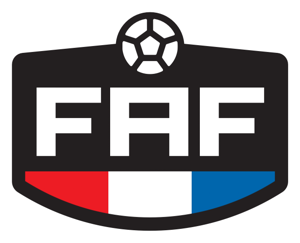
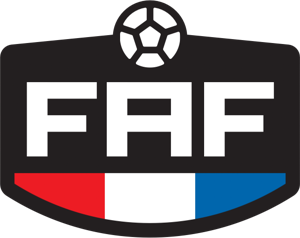
Quadro da FAF: escudo centralizado, sem nome e sem contorno

diff --git a/app/index.html b/app/index.html
@@ -1030,7 +1030,7 @@ body.picker #areaBanner{display:none!important}
 .abn.logo{padding:14px 18px}
 .abn.logo-bm{background:linear-gradient(135deg,#0B5E3B,#0E7A4D 70%,#12935C);box-shadow:0 10px 28px -14px rgba(14,122,77,.7)}
 .abn.logo-faf{background:linear-gradient(135deg,#2346C9,#2F5BEA 70%,#4F78F0);box-shadow:0 10px 28px -14px rgba(47,91,234,.7);gap:14px}
-.abn-emb{height:52px;width:auto;display:block;flex:none}
+.abn-emb{height:56px;width:auto;display:block;flex:none;margin:0 auto}
 .abn-fn{color:#fff;font:700 18px/1.15 var(--display);letter-spacing:-.01em;text-align:left}
 .tag.fed{background-image:url(assets/faf-emblem.png);background-repeat:no-repeat;background-position:6px 50%;background-size:auto 14px;padding-left:29px}
 .abn-logo{height:46px;width:auto;max-width:100%;display:block}
@@ -2290,7 +2290,7 @@ body.picker #areaBanner{display:none!important}
   function drawAreaHead(ctx, k, x, y){
     if (!logoOk(k)) return false; const L = LOGOS[k];
     if (L.plate){ drawAreaLogo(ctx, k, x, y - 16, 46); return true; }
-    const w = drawAreaLogo(ctx, k, x, y - 10, 62); ctx.save(); ctx.fillStyle = SH.ink; ctx.font = "700 28px " + DISP; ctx.textBaseline = "middle"; ctx.fillText((L.nome || "").toUpperCase(), x + w + 16, y + 21); ctx.restore(); return true;
+    drawAreaLogo(ctx, k, x, y - 10, 62); return true;
   }
   // cabeçalho das imagens com todas as áreas: as logos ao lado da marca do Demandô
   function drawLogosAoLado(ctx, x, y){
@@ -3564,7 +3564,7 @@ body.picker #areaBanner{display:none!important}
     ab.style.setProperty("--a", "var(--" + k + ")");
     ab.classList.toggle("logo", k === "asc" || k === "fed"); ab.classList.toggle("logo-bm", k === "asc"); ab.classList.toggle("logo-faf", k === "fed");
     if (k === "asc") ab.replaceChildren(el("img",{class:"abn-logo", src:"assets/bm-logo.png", alt:"", draggable:"false"}), el("span",{class:"abn-sr"}, NOME_FR[k] || "Boca da Mata"));
-    else if (k === "fed") ab.replaceChildren(el("img",{class:"abn-emb", src:"assets/faf-emblem.png", alt:"", draggable:"false"}), el("b",{class:"abn-fn"}, "Federação Alagoana de Futebol"));
+    else if (k === "fed") ab.replaceChildren(el("img",{class:"abn-emb", src:"assets/faf-emblem.png", alt:"", draggable:"false"}), el("span",{class:"abn-sr"}, "Federação Alagoana de Futebol"));
     else ab.replaceChildren(el("span",{class:"abn-s"}, LBL[k]), el("b",{class:"abn-n"}, NOME_FR[k] || SUB[k] || ""));
     ab.hidden = false;
   }

diff --git a/index.html b/index.html
@@ -2257,7 +2257,7 @@ body.picker #areaBanner{display:none!important}
   function drawAreaHead(ctx, k, x, y){
     if (!logoOk(k)) return false; const L = LOGOS[k];
     if (L.plate){ drawAreaLogo(ctx, k, x, y - 16, 46); return true; }
-    const w = drawAreaLogo(ctx, k, x, y - 10, 62); ctx.save(); ctx.fillStyle = SH.ink; ctx.font = "700 28px " + DISP; ctx.textBaseline = "middle"; ctx.fillText((L.nome || "").toUpperCase(), x + w + 16, y + 21); ctx.restore(); return true;
+    drawAreaLogo(ctx, k, x, y - 10, 62); return true;
   }
   // cabeçalho das imagens com todas as áreas: as logos ao lado da marca do Demandô
   function drawLogosAoLado(ctx, x, y){

diff --git a/tests/logos_test.py b/tests/logos_test.py
@@ -1,4 +1,4 @@
-"""Logos da FAF e da BM (banner e etiquetas), nos temas claro e escuro, pra admin e pra funcionário. App local em http://localhost:8766.
+"""Logos da FAF e da BM (banner centralizado, etiquetas, escudo sem contorno), nos temas claro e escuro. App local em http://localhost:8766.
 Uso: SB=<token> ADMIN_SENHA=<senha> CODIGO_EQUIPE=<código> python3 tests/logos_test.py"""
 import asyncio, os, json, requests
 from playwright.async_api import async_playwright
@@ -22,7 +22,9 @@ async def main():
         await entra(pg,"admin",ADMIN)
         await pg.click("#mFr button[data-fr=fed]"); await pg.wait_for_timeout(1200); r=await pg.evaluate(BANNER)
         chk("aba FAF: banner azul com o escudo da FAF (imagem carregada)", r and 'logo-faf' in r['classe'] and r['img'], r)
-        chk("aba FAF: o nome 'Federação Alagoana de Futebol' aparece", r and 'Federação Alagoana de Futebol' in r['texto'])
+        g=await pg.evaluate("(()=>{const b=document.querySelector('#areaBanner'), i=b.querySelector('img.abn-emb'); const rb=b.getBoundingClientRect(), ri=i.getBoundingClientRect(); const visivel=[...b.children].filter(e=>!e.classList.contains('abn-sr') && (e.innerText||'').trim()); const sr=b.querySelector('.abn-sr'); return {dx: Math.round((ri.left+ri.right)/2-(rb.left+rb.right)/2), textoVisivel: visivel.length, srEscondido: !sr || sr.getBoundingClientRect().width<=1, altura: Math.round(ri.height)}})()")
+        chk("aba FAF: escudo CENTRALIZADO no quadro", abs(g['dx'])<=2, g)
+        chk("aba FAF: nenhum nome escrito ao lado (só o escudo)", g['textoVisivel']==0 and g['srEscondido'], g)
         t=await pg.evaluate("(()=>{const tg=document.querySelector('.rw .tag.fed'); return !!tg && getComputedStyle(tg).backgroundImage.includes('faf-emblem.png')})()"); chk("etiqueta 'FAF' dos cards leva o escudo", t)
         await pg.evaluate("window.scrollTo(0,0)"); await pg.screenshot(path=f"faf_{tema}_fed.png")
         await pg.click("#mFr button[data-fr=asc]"); await pg.wait_for_timeout(1000); r=await pg.evaluate(BANNER)
@@ -31,6 +33,11 @@ async def main():
         await pg.click("#mFr button[data-fr=all]"); await pg.wait_for_timeout(900); await pg.click("#tabbar [data-view=agenda]"); await pg.wait_for_timeout(1200); await pg.screenshot(path=f"faf_{tema}_agenda.png")
         chk("sem área escolhida ('Todas'): sem banner", await pg.evaluate("(()=>{const b=document.querySelector('#areaBanner'); return !b || b.hidden})()"))
         await ctx.close()
+      print("\n######## ARQUIVO DO ESCUDO")
+      import io
+      from PIL import Image; import numpy as np
+      raw=requests.get(URL.rsplit('/',1)[0]+"/assets/faf-emblem.png").content; A=np.array(Image.open(io.BytesIO(raw)).convert('RGBA')); op=A[:,:,3]>200; pad=np.pad(op,1); viz=pad[:-2,1:-1]&pad[2:,1:-1]&pad[1:-1,:-2]&pad[1:-1,2:]&op; px=A[op&~viz][:,:3].astype(int)
+      chk("escudo sem contorno branco (a borda é da cor da logo)", ((px.min(axis=1)>220).mean())<0.02, f"{(px.min(axis=1)>220).mean():.1%} da borda é branca")
       print("\n######## funcionário da FAF")
       requests.post(f"{BASE}/functions/v1/criar-perfil", json={"codigo":CODIGO,"nome":"Func Faf","usuario":"tst.ff","senha":"SenhaForte123"}); uid=sql("select id from public.pessoas where usuario='tst.ff'")[0]['id']
       sql(f"update public.pessoas set papel='membro' where id='{uid}'"); sql(f"insert into public.acessos values ('{uid}','fed')")

diff --git a/tools/build_app.py b/tools/build_app.py
@@ -71,7 +71,7 @@ rep(r"""mais:renderMais})[view](); }""", r"""mais:renderMais})[view](); if (wind
 # 11) logo da Prefeitura de Boca da Mata no banner da área BM
 rep(r"""    ab.replaceChildren(el("span",{class:"abn-s"}, LBL[k]), el("b",{class:"abn-n"}, NOME_FR[k] || SUB[k] || ""));""", r"""    ab.classList.toggle("logo", k === "asc" || k === "fed"); ab.classList.toggle("logo-bm", k === "asc"); ab.classList.toggle("logo-faf", k === "fed");
     if (k === "asc") ab.replaceChildren(el("img",{class:"abn-logo", src:"assets/bm-logo.png", alt:"", draggable:"false"}), el("span",{class:"abn-sr"}, NOME_FR[k] || "Boca da Mata"));
-    else if (k === "fed") ab.replaceChildren(el("img",{class:"abn-emb", src:"assets/faf-emblem.png", alt:"", draggable:"false"}), el("b",{class:"abn-fn"}, "Federação Alagoana de Futebol"));
+    else if (k === "fed") ab.replaceChildren(el("img",{class:"abn-emb", src:"assets/faf-emblem.png", alt:"", draggable:"false"}), el("span",{class:"abn-sr"}, "Federação Alagoana de Futebol"));
     else ab.replaceChildren(el("span",{class:"abn-s"}, LBL[k]), el("b",{class:"abn-n"}, NOME_FR[k] || SUB[k] || ""));""")
 
 # 5) monta a página
@@ -87,7 +87,7 @@ css_extra += """
 .abn.logo{padding:14px 18px}
 .abn.logo-bm{background:linear-gradient(135deg,#0B5E3B,#0E7A4D 70%,#12935C);box-shadow:0 10px 28px -14px rgba(14,122,77,.7)}
 .abn.logo-faf{background:linear-gradient(135deg,#2346C9,#2F5BEA 70%,#4F78F0);box-shadow:0 10px 28px -14px rgba(47,91,234,.7);gap:14px}
-.abn-emb{height:52px;width:auto;display:block;flex:none}
+.abn-emb{height:56px;width:auto;display:block;flex:none;margin:0 auto}
 .abn-fn{color:#fff;font:700 18px/1.15 var(--display);letter-spacing:-.01em;text-align:left}
 .tag.fed{background-image:url(assets/faf-emblem.png);background-repeat:no-repeat;background-position:6px 50%;background-size:auto 14px;padding-left:29px}
 .abn-logo{height:46px;width:auto;max-width:100%;display:block}

diff --git a/docs/PLANO.md b/docs/PLANO.md
@@ -30,7 +30,7 @@ Quem esquecer a senha pede ao admin, que redefine. Três papéis: `admin`, `memb
 - [ ] **2c. Primeiros admins (eu):** criar as contas de admin e liberar a equipe conforme os perfis forem criados.
 - [x] **3. Painel completo no Supabase (`/app`):** o painel inteiro (Início, Quadro, Agenda, Mês, comentários, anexos, imagens da semana e do mês, relatório em PDF, recorrentes, áreas e perfis) roda com login por usuário. Gerado por `tools/build_app.py` a partir do painel do Claude. Testado de ponta a ponta (`tests/app_full_test.py`, 27 verificações).
 - [x] **3b. Ajustes de tela e de acesso:** cabeçalho do celular (nome no centro, sino à esquerda, data à direita), card da demanda com a ordem status/progresso, prazo e local, equipe; cartão "Quem é você?" no topo pro funcionário, que liga o nome dele às notificações; cadastro de cada pessoa protegido (migração 005).
-- [x] **3c. Sair, logos e anexos:** botão "Sair da conta" no fim do Início e do Mais; logo da Prefeitura de Boca da Mata no banner e escudo nas etiquetas da BM e escudo da FAF no banner azul e nas etiquetas da FAF (a logo completa da FAF, com o texto, fica guardada em `app/assets`, só pra fundo claro); anexos abrem dentro do app com prévia (PDF e foto), botão Fechar e Baixar (pdf.js junto no repositório, em `app/vendor`).
+- [x] **3c. Sair, logos e anexos:** botão "Sair da conta" no fim do Início e do Mais; logo da Prefeitura de Boca da Mata no banner e escudo nas etiquetas da BM e escudo da FAF (sem contorno, centralizado e sem nome escrito) no banner azul e nas etiquetas da FAF (a logo completa da FAF, com o texto, fica guardada em `app/assets`, só pra fundo claro); anexos abrem dentro do app com prévia (PDF e foto), botão Fechar e Baixar (pdf.js junto no repositório, em `app/vendor`).
 - [x] **3d. Logos nas imagens e no relatório:** a logo da Prefeitura (faixa verde) e o escudo da FAF aparecem na imagem da semana, no cronograma do mês e em todas as páginas do relatório mensal. O painel do Claude fica como era (as logos só existem no site).
 - [x] **3e. Sincronizar o painel do Claude com o site:** `tools/sincronizar_painel.py` compara demanda por demanda, traz o que é novo, atualiza o que só o painel mudou, mantém o que só o site mudou e mostra os conflitos. Nunca apaga. Enquanto a equipe usar o painel, rodar antes de qualquer conferência; na virada, rodar uma última vez.
 - [x] **5. App no celular:** manifesto, ícones, service worker e dica de instalação.
